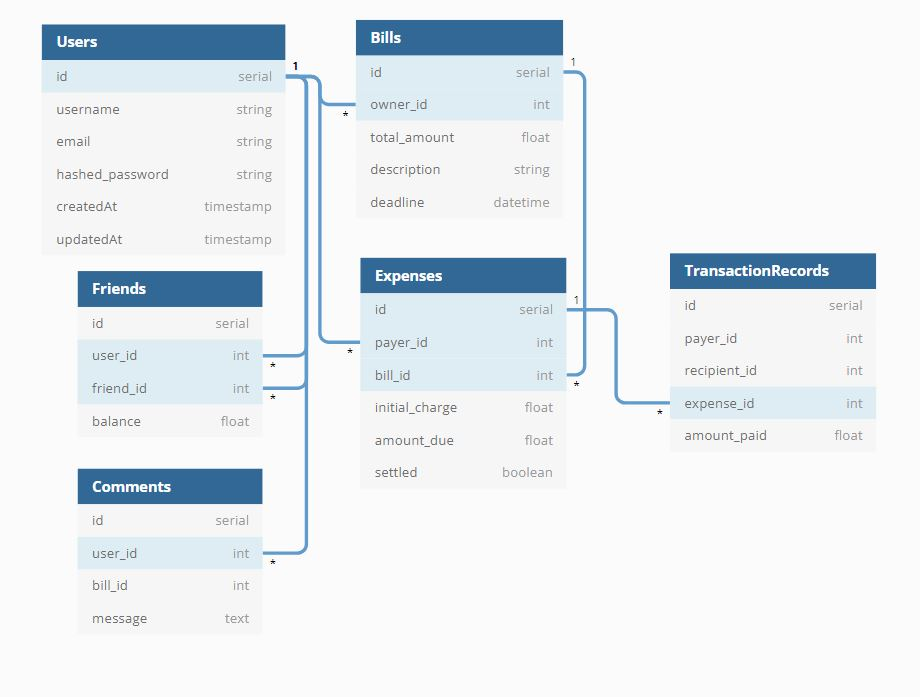
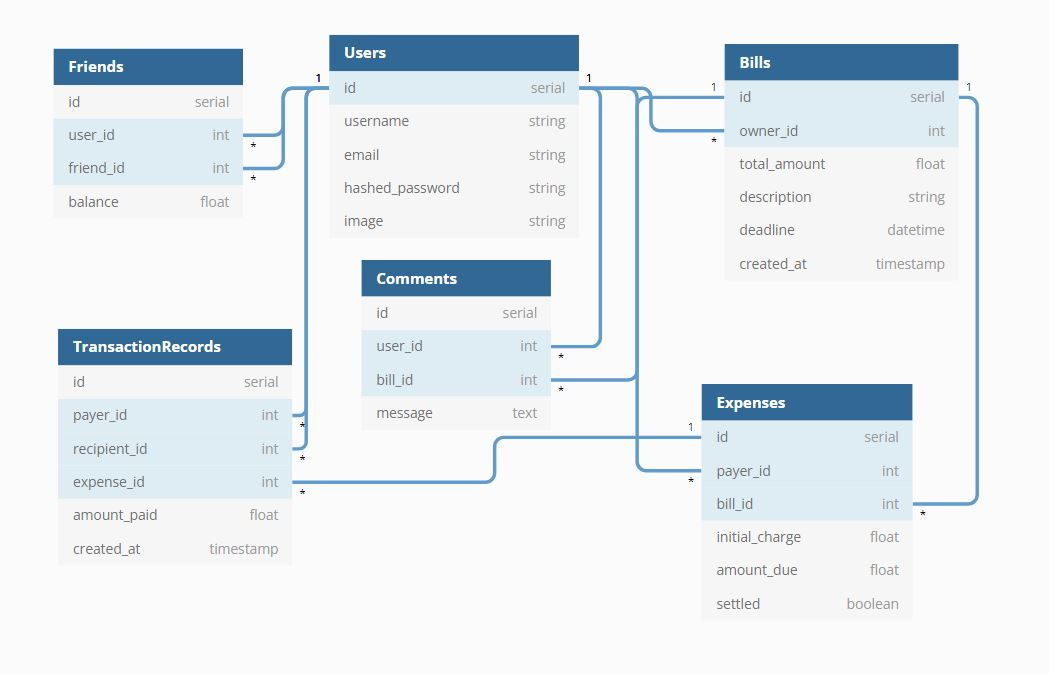
readme additions

diff --git a/README.md b/README.md
@@ -1,134 +1,109 @@
-# Flask React Project
+# SplitaBill
 
-This is the starter for the Flask React project.
+SplitaBill, inspired by the functionality of [Splitwise](https://www.splitwise.com) and the clean design of [Venmo](https://www.venmo.com), is an app where users can keep track of and pay bills/expenses shared between friends.
 
-## Getting started
+- [Live Site](https://split-a-bill.herokuapp.com)
+- [MVP Feature List](https://github.com/choi-jihoon/SplittaBill/wiki/MVP-Features-List)
+- [Database Schema](https://github.com/choi-jihoon/SplittaBill/wiki/Database-Schema)
+- [Frontend Routes](https://github.com/choi-jihoon/SplittaBill/wiki/Frontend-Routes)
+- [API Documentation](https://github.com/choi-jihoon/SplittaBill/wiki/API-Documentation)
+- [User Stories](https://github.com/choi-jihoon/SplittaBill/wiki/User-Stories)
 
-1. Clone this repository (only this branch)
+# Technologies Used
+<img  src="https://cdn.jsdelivr.net/gh/devicons/devicon/icons/javascript/javascript-original.svg"  height=40/><img src="https://cdn.jsdelivr.net/gh/devicons/devicon/icons/react/react-original.svg" height=40/><img src="https://cdn.jsdelivr.net/gh/devicons/devicon/icons/redux/redux-original.svg" height=40/><img src="https://cdn.jsdelivr.net/gh/devicons/devicon/icons/flask/flask-original.svg" height=40/><img src="https://cdn.jsdelivr.net/gh/devicons/devicon/icons/python/python-original.svg" height=50/><img  src="https://cdn.jsdelivr.net/gh/devicons/devicon/icons/postgresql/postgresql-original.svg"  height=40/><img  src="https://cdn.jsdelivr.net/gh/devicons/devicon/icons/sqlalchemy/sqlalchemy-original.svg"  height=40/><img  src="https://cdn.jsdelivr.net/gh/devicons/devicon/icons/css3/css3-original.svg"  height=40/><img  src="https://cdn.jsdelivr.net/gh/devicons/devicon/icons/html5/html5-original.svg"  height=40/><img  src="https://cdn.jsdelivr.net/gh/devicons/devicon/icons/git/git-original.svg"  height=40/><img  src="https://cdn.jsdelivr.net/gh/devicons/devicon/icons/vscode/vscode-original.svg"  height=40/>
 
-   ```bash
-   git clone https://github.com/appacademy-starters/python-project-starter.git
-   ```
+# Getting started
 
-2. Install dependencies
+1. Clone this repository
 
-      ```bash
-      pipenv install --dev -r dev-requirements.txt && pipenv install -r requirements.txt
-      ```
+   ```git@github.com:choi-jihoon/SplittaBill.git```
 
-3. Create a **.env** file based on the example with proper settings for your
-   development environment
-4. Setup your PostgreSQL user, password and database and make sure it matches your **.env** file
+2. CD into the /app directory and install dependencies
 
-5. Get into your pipenv, migrate your database, seed your database, and run your flask app
+    ```pipenv install```
 
-   ```bash
-   pipenv shell
-   ```
+3. CD into the /react-app directory and install dependencies
 
-   ```bash
-   flask db upgrade
-   ```
+    ```npm install```
 
-   ```bash
-   flask seed all
-   ```
+4.  Create a .env file based on the .env.example given (An AWS S3 account is required for adding/editing user profile pictures!)
 
-   ```bash
-   flask run
-   ```
+5.  Create a user in psql based on your .env DATABASE_URL app_name
 
-6. To run the React App in development, checkout the [README](./react-app/README.md) inside the `react-app` directory.
+    ```psql -c "CREATE USER <username> PASSWORD '<password>' CREATEDB"```
 
-***
-*IMPORTANT!*
-   If you add any python dependencies to your pipfiles, you'll need to regenerate your requirements.txt before deployment.
-   You can do this by running:
+6.  Create a databse in psql based on your.env DATABASE_URL app_db_name
 
-   ```bash
-   pipenv lock -r > requirements.txt
-   ```
+7. Start your shell, migrate your database, seed your database, and run the flask app
 
-*ALSO IMPORTANT!*
-   psycopg2-binary MUST remain a dev dependency because you can't install it on apline-linux.
-   There is a layer in the Dockerfile that will install psycopg2 (not binary) for us.
-***
+   ```pipenv shell```
 
-## Deploy to Heroku
+   ```flask db upgrade```
 
-1. Before you deploy, don't forget to run the following command in order to
-ensure that your production environment has all of your up-to-date
-dependencies. You only have to run this command when you have installed new
-Python packages since your last deployment, but if you aren't sure, it won't
-hurt to run it again.
+    ```flask seed all```
 
-   ```bash
-   pipenv lock -r > requirements.txt
-   ```
+    ```flask run```
 
-2. Create a new project on Heroku
-3. Under Resources click "Find more add-ons" and add the add on called "Heroku Postgres"
-4. Install the [Heroku CLI](https://devcenter.heroku.com/articles/heroku-command-line)
-5. Run
+8. Open another terminal and change directory into /react-app and run the React app
 
-   ```bash
-   heroku login
-   ```
+	```npm start```
 
-6. Login to the heroku container registry
 
-   ```bash
-   heroku container:login
-   ```
+# Features
 
-7. Update the `REACT_APP_BASE_URL` variable in the Dockerfile.
-   This should be the full URL of your Heroku app: i.e. "https://flask-react-aa.herokuapp.com"
-8. Push your docker container to heroku from the root directory of your project.
-   (If you are using an M1 mac, follow [these steps below](#for-m1-mac-users) instead, then continue on to step 9.)
-   This will build the Dockerfile and push the image to your heroku container registry.
+## Splash Page & User Authentication
 
-   ```bash
-   heroku container:push web -a {NAME_OF_HEROKU_APP}
-   ```
+Users can log into an existing account or sign up and create a new account. Alternatively, users can test the site with the Demo Login feature.
 
-9. Release your docker container to heroku
+(Insert Screenshots Here)
 
-      ```bash
-      heroku container:release web -a {NAME_OF_HEROKU_APP}
-      ```
 
-10. set up your database
+## User Dashboard
 
-      ```bash
-      heroku run -a {NAME_OF_HEROKU_APP} flask db upgrade
-      heroku run -a {NAME_OF_HEROKU_APP} flask seed all
-      ```
+The logged in user's dashboard displays all the bills and expenses related to the user, as well as a side panel where the user can edit their profile picture, create a bill, add a friend, or log out.
 
-11. Under Settings find "Config Vars" and add any additional/secret .env
-variables.
+(Insert Screenshots Here)
 
-12. profit
 
-### For M1 Mac users
+## Bills & Expenses Tab
 
-(Replaces **Step 8**)
+Clicking on a specific bill or expense will display a modal with the details for that bill or expense (people involved, how much each person still needs to pay for their individual expense, and comments made on the bill).
 
-1. Build image with linux platform for heroku servers. Replace
-{NAME_OF_HEROKU_APP} with your own tag:
+(Insert Screenshots Here)
 
-   ```bash=
-   docker buildx build --platform linux/amd64 -t {NAME_OF_HEROKU_APP} .
-   ```
+The user has the option to edit/delete bills they own, and pay back their expenses.
 
-2. Tag your app with the url for your apps registry. Make sure to use the name
-of your Heroku app in the url and tag name:
+(Insert Screenshots Here)
 
-   ```bash=2
-   docker tag {NAME_OF_HEROKU_APP} registry.heroku.com/{NAME_OF_HEROKU_APP}/web
-   ```
 
-3. Use docker to push the image to the Heroku container registry:
+## Comments
 
-   ```bash=3
-   docker push registry.heroku.com/{NAME_OF_HEROKU_APP}/web
-   ```
+The user can add comments on the bill detail modal, and edit/delete comments that they own.
+
+(Insert Screenshots Here)
+
+
+## Friends Tab
+
+Navigating to the friends tab will display a list of the user's friends and current balances. Clicking on a friend will display transaction records between the user and the friend.
+
+The user can delete friends as long as all expenses between the user and the friend has been settled (balance is zero).
+
+(Insert Screenshots Here)
+
+
+## Transaction History Tab
+
+Navigating to the transaction history tab will display all the transactions the user has been involved in, with the most recent on top.
+
+(Insert Screenshots Here)
+
+
+## Page Not Found
+
+Trying to access a path that does not exist will render a 404 Page component.
+
+(Insert Screenshots Here)
+
+# Database Schema
+![Database Schema](./images/splittabilldbschema.JPG)

diff --git a/deployment.md b/deployment.md
@@ -1,0 +1,134 @@
+# Flask React Project
+
+This is the starter for the Flask React project.
+
+## Getting started
+
+1. Clone this repository (only this branch)
+
+   ```bash
+   git clone https://github.com/appacademy-starters/python-project-starter.git
+   ```
+
+2. Install dependencies
+
+      ```bash
+      pipenv install --dev -r dev-requirements.txt && pipenv install -r requirements.txt
+      ```
+
+3. Create a **.env** file based on the example with proper settings for your
+   development environment
+4. Setup your PostgreSQL user, password and database and make sure it matches your **.env** file
+
+5. Get into your pipenv, migrate your database, seed your database, and run your flask app
+
+   ```bash
+   pipenv shell
+   ```
+
+   ```bash
+   flask db upgrade
+   ```
+
+   ```bash
+   flask seed all
+   ```
+
+   ```bash
+   flask run
+   ```
+
+6. To run the React App in development, checkout the [README](./react-app/README.md) inside the `react-app` directory.
+
+***
+*IMPORTANT!*
+   If you add any python dependencies to your pipfiles, you'll need to regenerate your requirements.txt before deployment.
+   You can do this by running:
+
+   ```bash
+   pipenv lock -r > requirements.txt
+   ```
+
+*ALSO IMPORTANT!*
+   psycopg2-binary MUST remain a dev dependency because you can't install it on apline-linux.
+   There is a layer in the Dockerfile that will install psycopg2 (not binary) for us.
+***
+
+## Deploy to Heroku
+
+1. Before you deploy, don't forget to run the following command in order to
+ensure that your production environment has all of your up-to-date
+dependencies. You only have to run this command when you have installed new
+Python packages since your last deployment, but if you aren't sure, it won't
+hurt to run it again.
+
+   ```bash
+   pipenv lock -r > requirements.txt
+   ```
+
+2. Create a new project on Heroku
+3. Under Resources click "Find more add-ons" and add the add on called "Heroku Postgres"
+4. Install the [Heroku CLI](https://devcenter.heroku.com/articles/heroku-command-line)
+5. Run
+
+   ```bash
+   heroku login
+   ```
+
+6. Login to the heroku container registry
+
+   ```bash
+   heroku container:login
+   ```
+
+7. Update the `REACT_APP_BASE_URL` variable in the Dockerfile.
+   This should be the full URL of your Heroku app: i.e. "https://flask-react-aa.herokuapp.com"
+8. Push your docker container to heroku from the root directory of your project.
+   (If you are using an M1 mac, follow [these steps below](#for-m1-mac-users) instead, then continue on to step 9.)
+   This will build the Dockerfile and push the image to your heroku container registry.
+
+   ```bash
+   heroku container:push web -a {NAME_OF_HEROKU_APP}
+   ```
+
+9. Release your docker container to heroku
+
+      ```bash
+      heroku container:release web -a {NAME_OF_HEROKU_APP}
+      ```
+
+10. set up your database
+
+      ```bash
+      heroku run -a {NAME_OF_HEROKU_APP} flask db upgrade
+      heroku run -a {NAME_OF_HEROKU_APP} flask seed all
+      ```
+
+11. Under Settings find "Config Vars" and add any additional/secret .env
+variables.
+
+12. profit
+
+### For M1 Mac users
+
+(Replaces **Step 8**)
+
+1. Build image with linux platform for heroku servers. Replace
+{NAME_OF_HEROKU_APP} with your own tag:
+
+   ```bash=
+   docker buildx build --platform linux/amd64 -t {NAME_OF_HEROKU_APP} .
+   ```
+
+2. Tag your app with the url for your apps registry. Make sure to use the name
+of your Heroku app in the url and tag name:
+
+   ```bash=2
+   docker tag {NAME_OF_HEROKU_APP} registry.heroku.com/{NAME_OF_HEROKU_APP}/web
+   ```
+
+3. Use docker to push the image to the Heroku container registry:
+
+   ```bash=3
+   docker push registry.heroku.com/{NAME_OF_HEROKU_APP}/web
+   ```
